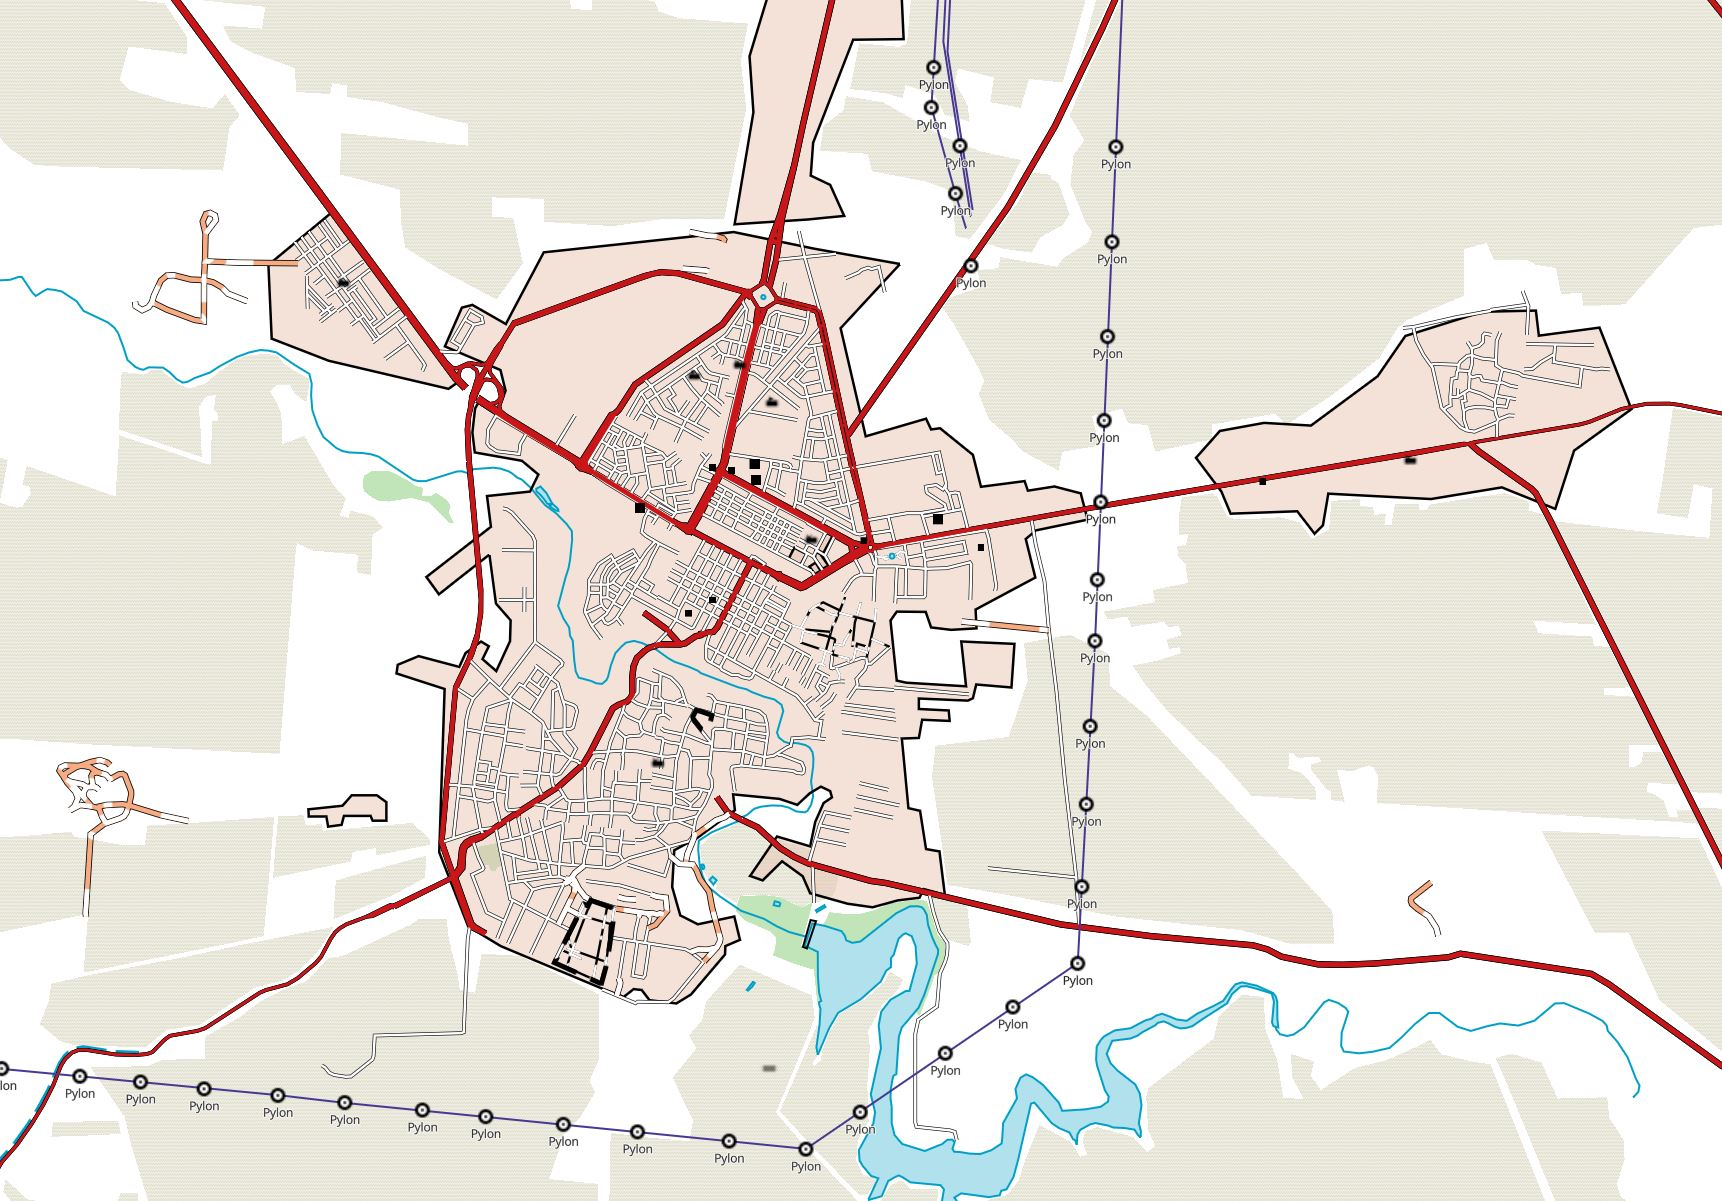
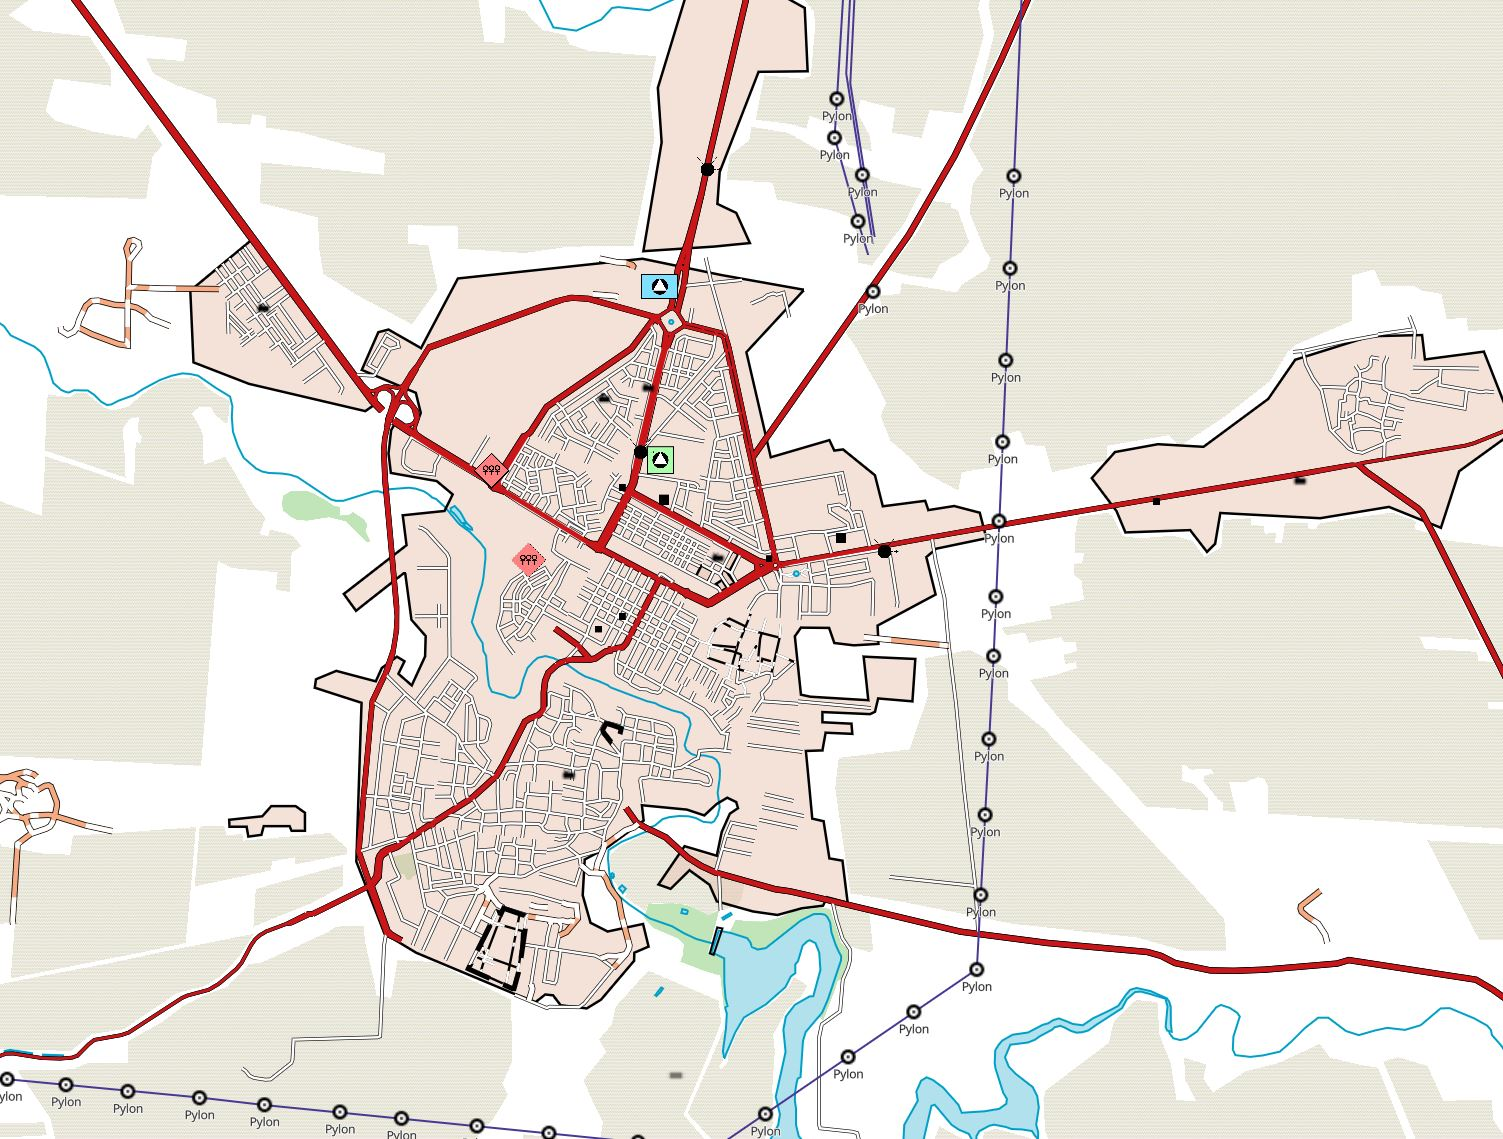
add the MIL_STD2525D

diff --git a/Daraa/CartoCSS/MIL-STD2525D/MIL-STD2525D.css b/Daraa/CartoCSS/MIL-STD2525D/MIL-STD2525D.css
@@ -1,0 +1,44 @@
+/* @title: MIL_STD2525D */
+/*color background*/
+[zoom > 11]{
+  [stndid_1 = 0][stndid_2 != 999] {
+    marker-width:40;
+    
+    [stndid_2 = 2] {
+      marker-file: url('https://raw.githubusercontent.com/MediaComem/ogc-testbed-14/master/SVG/Frames/0310_Friend.svg');
+    }
+     [stndid_2 = 3] {
+      marker-file: url('https://raw.githubusercontent.com/MediaComem/ogc-testbed-14/master/SVG/Frames/0410_Neutral.svg');
+    }
+
+    [stndid_2 = 4] {
+      marker-file: url('https://raw.githubusercontent.com/MediaComem/ogc-testbed-14/master/SVG/Frames/0510_Suspect_Joker.svg');
+    }
+
+      [stndid_2 = 5] {
+     marker-file: url('https://raw.githubusercontent.com/MediaComem/ogc-testbed-14/master/SVG/Frames/0600_Hostile_Faker.svg');
+    }
+
+  }
+  
+/*symbol*/
+::symbol{
+      [entity = 28]{
+          marker-file: url('https://raw.githubusercontent.com/MediaComem/ogc-testbed-14/master/SVG/Symbol/25280201%20Antipersonnel%20Mine%20with%20Directional%20Effects.svg');
+      marker-transform: rotate([angle]-90);
+    	marker-width:30;
+    	marker-allow-overlap:true;
+    }
+
+      [entity = 19] {
+      	marker-file: url('https://raw.githubusercontent.com/MediaComem/ogc-testbed-14/master/SVG/Symbol/10190000_Emergency_Operation.svg');
+    	marker-width:25;
+    	marker-allow-overlap:true;
+    }
+      [entity = 11] {
+      	marker-file: url('https://raw.githubusercontent.com/MediaComem/ogc-testbed-14/master/SVG/Symbol/11110400_Organization%20or%20Group.svg');
+    	marker-width:20;
+    	marker-allow-overlap:true;
+    }    
+  }
+}
